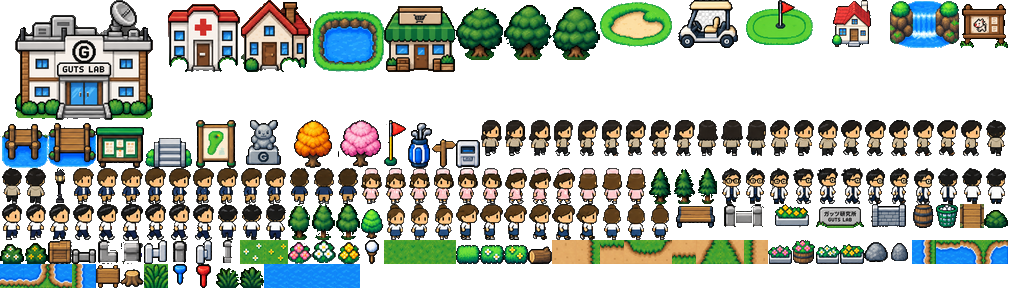
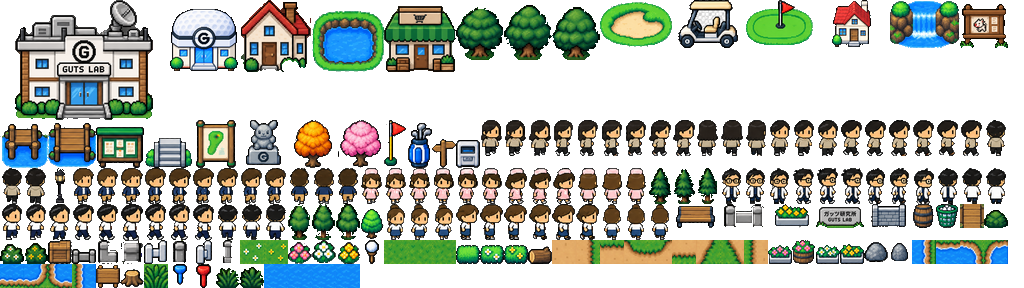
回復の家をゴルフボール型ドームの絵に差し替え
Claude-Session: https://claude.ai/code/session_018VDSYCPciSbMvR8kKaJDnr

Changed region(s): [[0.1562, 0.0, 0.25, 0.25]]

diff --git a/tools/extract-atlas.py b/tools/extract-atlas.py
@@ -15,6 +15,7 @@ sheets = {n: keyout(f'{SHEETS}/{n}.png')[0] for n in ['terrain', 'props', 'objec
 sheets['trees2'] = keyout_dark(f'{SHEETS}/trees2.png')[0]
 sheets['bld2'] = keyout_blur(f'{SHEETS}/bld2.png', close=8)[0]
 _t2 = Image.open(f'{SHEETS}/terrain2.png').convert('RGBA'); sheets['terrain2'] = _t2
+sheets['heal2'] = keyout(f'{SHEETS}/heal2.png')[0]
 
 def tight(img, box):
     """箱内の不透明ピクセルの外接矩形（黒ラベルは除外）"""
@@ -165,6 +166,8 @@ add('bush_flower_y', R, (760, 698, 906, 825), 1, 1); add('tuft2', R, (971, 684, 
 Bd = 'bld2'
 add('lab', Bd, (40, 75, 622, 583), 7, 5); add('house', Bd, (626, 75, 892, 583), 3, 3); add('heal', Bd, (895, 75, 1179, 583), 3, 3); add('shop', Bd, (1184, 276, 1497, 565), 3, 3)
 add('board_monster', Bd, (514, 655, 813, 932), 2, 2); add('stone_sign', Bd, (92, 702, 466, 870), 2, 1)
+# 回復の家（ゴルフボール型ドーム）
+add('heal', 'heal2', (0, 0, 1243, 1247), 3, 3)
 
 # ---------------- キャラクター（chars） ----------------
 C = 'chars'
